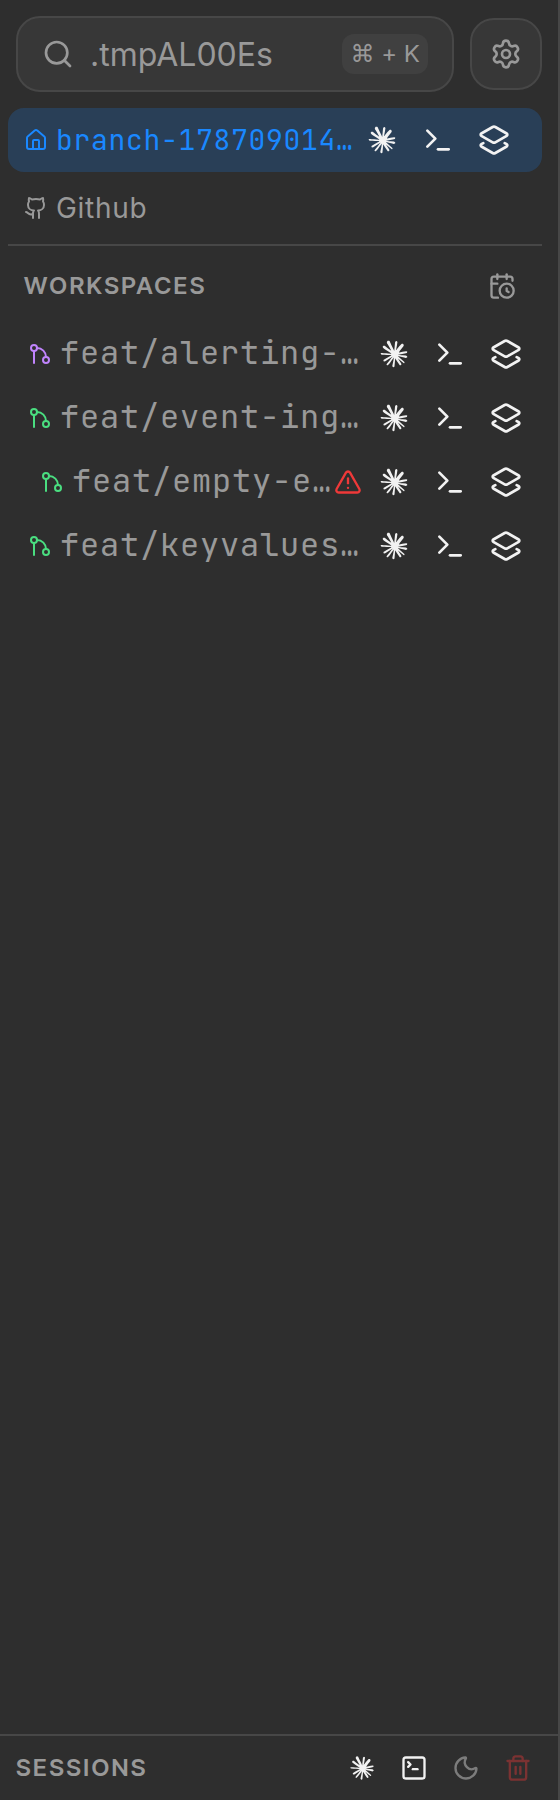
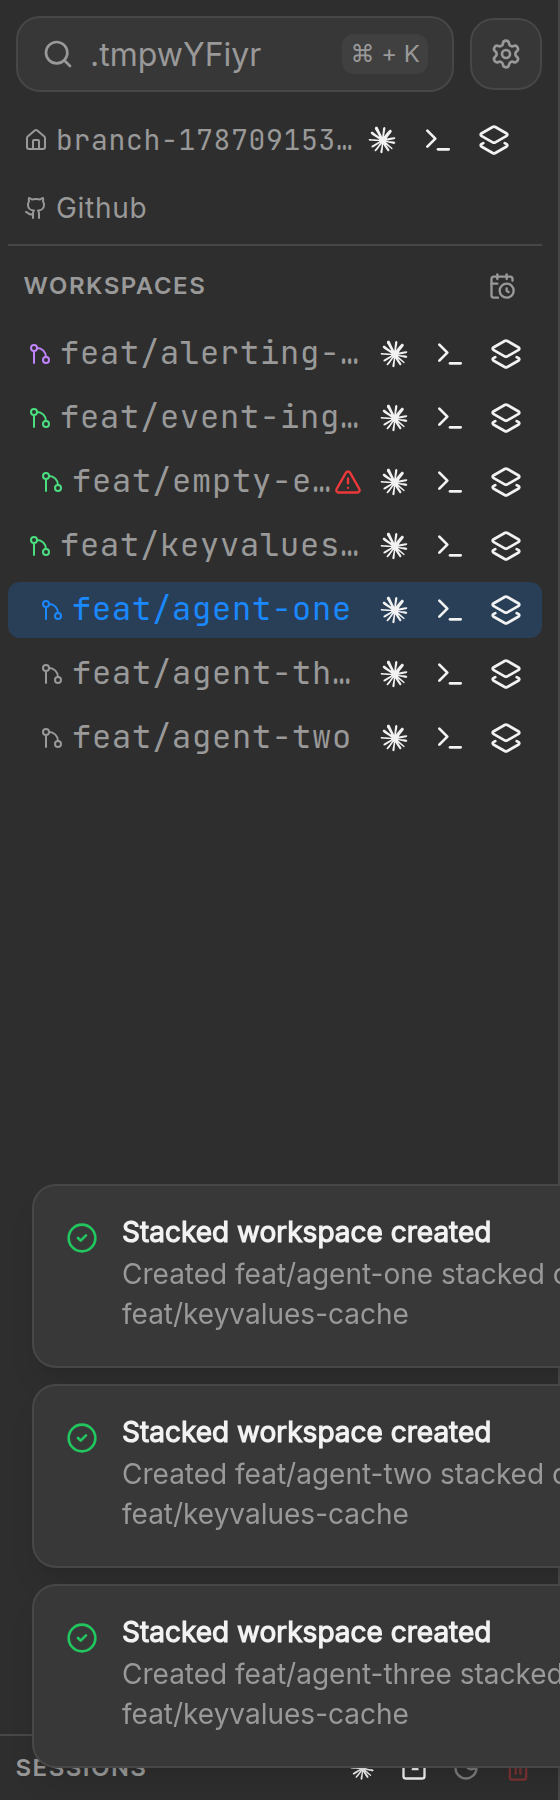
Refresh spawn, send, and timestamp landing screenshots.
Capture the three stacked agent workspaces, terminal send thumbnail plus lightbox, and the edit-commit-timestamp dialog used in Features scheduling copy.

diff --git a/web/src/pages/index.tsx b/web/src/pages/index.tsx
@@ -522,8 +522,8 @@ function FeaturesSection(): ReactNode {
                   className={styles.featureImage}
                   src={timestampScreenshot}
                   alt="Edit commit timestamp dialog with shift to now"
-                  width={1200}
-                  height={800}
+                  width={1040}
+                  height={652}
                   loading="lazy"
                   decoding="async"
                 />
